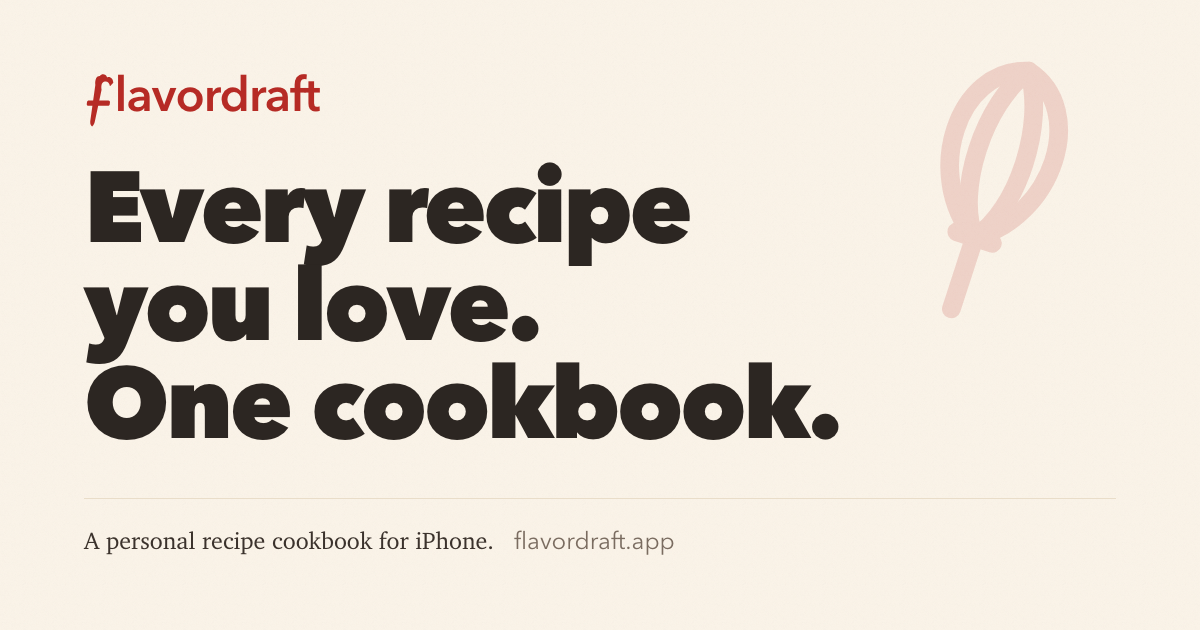
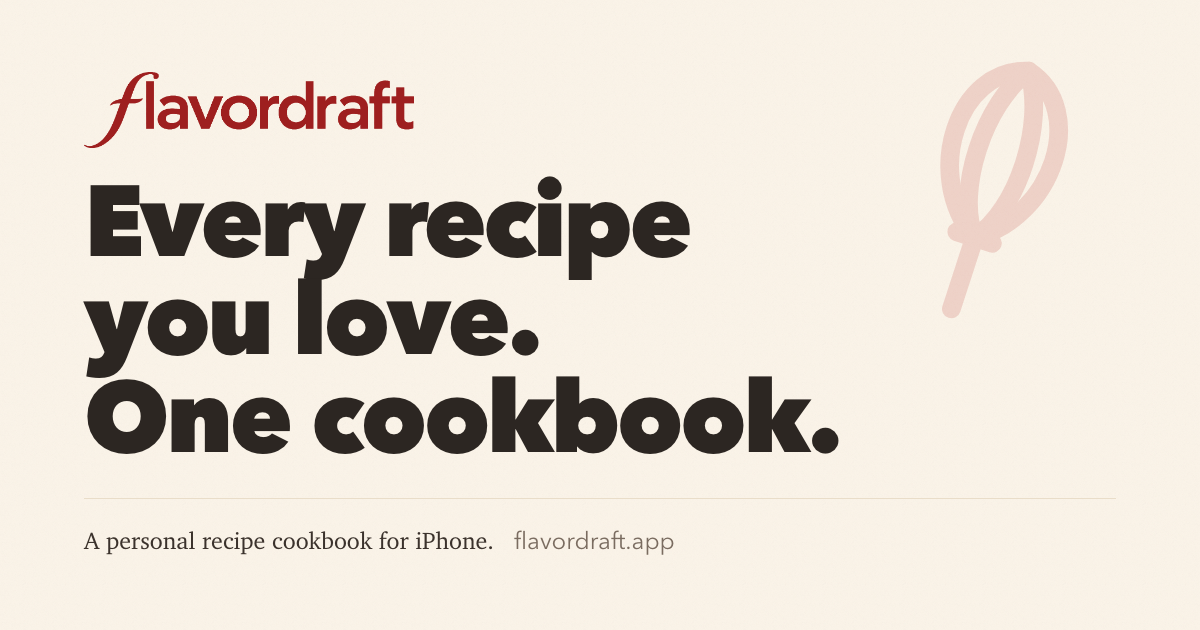
Use the approved wordmark asset and unclip the step numerals
Replace the rebuilt f-mark lockup with the handoff raster wordmark in the
header, footer, closing section (parchment "mono" file on red) and the
share image, placed by width as the handoff specifies.

Move screenshot cropping and masking from .phone to .phone__body so the
step badge on the outer element is no longer cut off in the grocery trio
and in the narrow-screen stacks.

diff --git a/src/assets/css/site.css b/src/assets/css/site.css
@@ -488,38 +488,21 @@ a:hover {
   color: inherit;
 }
 
-.wordmark__lockup {
-  display: inline-flex;
-  align-items: baseline;
-  color: var(--red);
-  font-family: var(--sans);
-  font-weight: 600;
-  font-size: var(--wm-size, 1.5rem);
-  letter-spacing: -0.02em;
-  line-height: 1;
-  white-space: nowrap;
+/* The approved wordmark is a raster (wordmark_handoff/README.md): place it by
+   width only and let the height follow. Header and footer sit at the
+   handoff's 140 pt home-header size; the closing section goes larger. */
+.wordmark__img {
+  display: block;
+  width: var(--wm-w, 8.75rem);
+  height: auto;
 }
 
-.wordmark__f {
-  height: 1.18em;
-  width: auto;
-  flex: none;
-  align-self: flex-end;
-  margin-right: -0.03em;
-  margin-bottom: -0.17em;
-  fill: currentColor;
+.wordmark__img--footer {
+  --wm-w: 9.5rem;
 }
 
-.wordmark__lockup--on-red {
-  color: var(--on-red);
-}
-
-.wordmark__lockup--footer {
-  --wm-size: 1.5rem;
-}
-
-.wordmark__lockup--closing {
-  --wm-size: clamp(2rem, 1.4rem + 2.5vw, 3.25rem);
+.wordmark__img--closing {
+  --wm-w: clamp(12rem, 26vw, 19rem);
 }
 
 /* --------------------------------------------------------------------------
@@ -766,8 +749,9 @@ a:hover {
   box-shadow: 0 0 0 3px var(--paper-sunken);
 }
 
-/* A phone cut off by the section it sits in: the top is what matters. */
-.phone--cut {
+/* A phone cut off by the section it sits in: the top is what matters. The
+   crop lives on the body so the step numeral on the outer element stays whole. */
+.phone--cut > .phone__body {
   overflow: hidden;
   -webkit-mask-image: linear-gradient(to bottom, #000 74%, transparent 100%);
   mask-image: linear-gradient(to bottom, #000 74%, transparent 100%);
@@ -1020,6 +1004,9 @@ a:hover {
 
   .stack > .phone {
     width: min(100%, 24rem);
+  }
+
+  .stack > .phone > .phone__body {
     max-height: 27rem;
     overflow: hidden;
     -webkit-mask-image: linear-gradient(to bottom, #000 76%, transparent 100%);
@@ -1030,7 +1017,7 @@ a:hover {
     width: min(100%, 22rem);
   }
 
-  .stack--cookbook > .phone {
+  .stack--cookbook > .phone > .phone__body {
     max-height: 31rem;
   }
 }
@@ -1311,7 +1298,7 @@ a:hover {
 }
 
 @media (max-width: 61.99em) {
-  .trio__item > .phone {
+  .trio__item > .phone > .phone__body {
     max-height: 26rem;
   }
 

diff --git a/scripts/og/og.html b/scripts/og/og.html
@@ -13,8 +13,7 @@
     display: flex; flex-direction: column; justify-content: space-between;
     position: relative;
   }
-  .lockup { display: inline-flex; align-items: baseline; color: #b62b25; font-weight: 600; font-size: 48px; letter-spacing: -.02em; line-height: 1; }
-  .lockup svg { height: 1.18em; width: auto; align-self: flex-end; margin: 0 -.03em -.17em 0; fill: currentColor; }
+  .lockup img { display: block; width: 330px; height: auto; }
   h1 { font-size: 100px; font-weight: 800; line-height: .98; letter-spacing: -.032em; color: #2c2622; }
   .foot { display: flex; align-items: baseline; gap: 20px; padding-top: 26px; border-top: 1px solid #e9ddc9; font-size: 24px; }
   .foot b { font-family: Charter, "Iowan Old Style", Georgia, serif; font-weight: 400; color: #3b322c; }
@@ -23,7 +22,7 @@
 </style></head>
 <body>
   <svg class="whisk" viewBox="0 0 24 24" fill="none" stroke="currentColor" stroke-width="1.5" stroke-linecap="round" stroke-linejoin="round"><path d="M12 22v-6"/><path d="M10.5 16h3"/><path d="M12 16C6.5 12.5 6.5 3.5 12 2c5.5 1.5 5.5 10.5 0 14"/><path d="M12 16c-2.6-3-2.6-10.5 0-14c2.6 3.5 2.6 11 0 14"/></svg>
-  <p class="lockup"><svg viewBox="220 120 440 780"><path d="M624 268 C620 208 578 176 538 194 C526 146 466 134 438 174 C396 172 368 216 376 300 L306 800 C302 838 318 866 332 872 C350 858 366 830 370 800 L462 366 C452 292 470 254 508 250 C548 246 570 274 578 316 Z"/><path d="M286 512 L556 512 C570 512 580 524 578 538 L574 566 C572 578 562 586 550 586 L280 586 C266 586 256 574 258 560 L262 532 C264 520 274 512 286 512 Z"/></svg>lavordraft</p>
+  <p class="lockup"><img src="../../src/assets/img/wordmark-flavordraft.png" alt="" width="330"></p>
   <h1>Every recipe<br>you love.<br>One cookbook.</h1>
   <p class="foot"><b>A personal recipe cookbook for iPhone.</b><span>flavordraft.app</span></p>
 </body></html>

diff --git a/README.md b/README.md
@@ -87,8 +87,9 @@ The site uses the app's own faces through system stacks — Avenir Next for
 headlines and interface, Charter for editorial passages — with Helvetica
 Neue/Arial and Georgia as fallbacks. No font files are bundled or loaded.
 
-The wordmark is real text: the design system's "f" mark (inlined in
-`brand.njk`) followed by "lavordraft". The doodles are Lucide icons (ISC) plus
+The wordmark is the approved raster from `wordmark_handoff/` (see its README
+for specs): `src/assets/img/wordmark-flavordraft.png` on paper and the
+`-mono` file reversed on red, always placed by width. The doodles are Lucide icons (ISC) plus
 the whisk and spoon drawn for the screenshot set; the platform marks are from
 Simple Icons (CC0) and remain the trademarks of their owners. Sources and
 licences: `src/assets/img/doodles/SOURCES.txt`.
